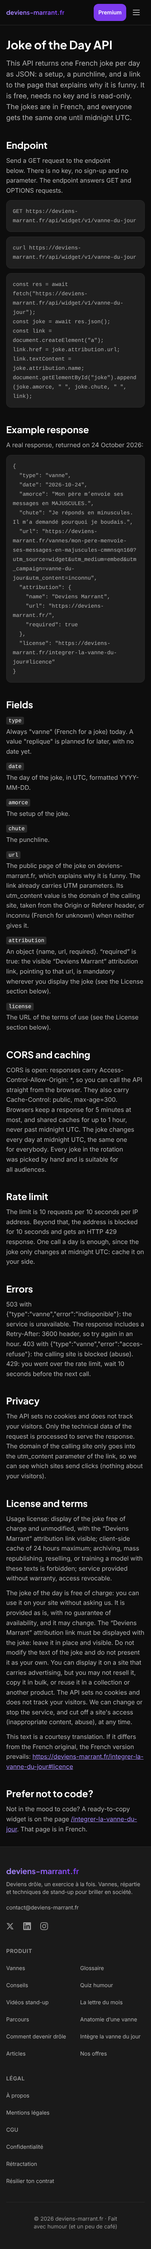
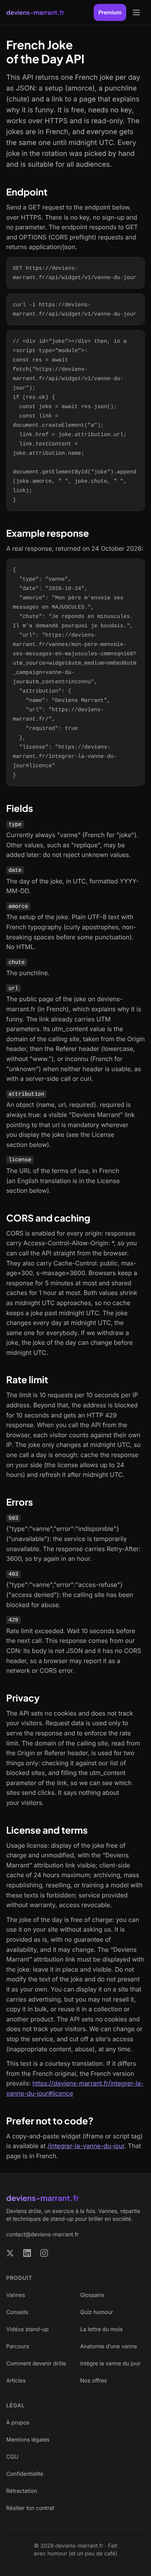
fix(widget-s22): /developers corrigée après relecture (cache réel, vie privée exacte, fetch sûr, erreurs en liste, 429 du CDN)
Claude-Session: https://claude.ai/code/session_01YAxbXJAdESRnkaFF4w4w5d

diff --git a/apps/web/src/config/textes/developers.ts b/apps/web/src/config/textes/developers.ts
@@ -9,9 +9,10 @@
 export const PAGE_TITLE = "Free Joke of the Day API in French | Deviens Marrant";
 /** Meta description (≤ 155 caractères). */
 export const PAGE_DESCRIPTION =
-  "Free JSON API for a French joke of the day: no key, no sign-up, CORS enabled. A new joke every day, read-only. The jokes are in French.";
+  "Free JSON API for a French joke of the day: no key, no sign-up, CORS enabled. A different joke every day, read-only. The jokes are in French.";
 
-export const H1 = "Joke of the Day API";
+/** H1, repris comme `name` du JSON-LD WebAPI. */
+export const H1 = "French Joke of the Day API";
 export const H2_ENDPOINT = "Endpoint";
 export const H2_EXEMPLE = "Example response";
 export const H2_CHAMPS = "Fields";
@@ -24,11 +25,11 @@ export const H2_WIDGET = "Prefer not to code?";
 
 /** Chapeau sous le H1. */
 export const TEXTE_INTRO =
-  "This API returns one French joke per day as JSON: a setup, a punchline, and a link to the page that explains why it is funny. It is free, needs no key and is read-only. The jokes are in French, and everyone gets the same one until midnight UTC.";
+  "This API returns one French joke per day as JSON: a setup (amorce), a punchline (chute) and a link to a page that explains why it is funny. It is free, needs no key, works over HTTPS and is read-only. The jokes are in French, and everyone gets the same one until midnight UTC. Every joke in the rotation was picked by hand and is suitable for all audiences.";
 
 /** Phrase avant l'exemple d'appel (GET https://deviens-marrant.fr/api/widget/v1/vanne-du-jour). */
 export const TEXTE_ENDPOINT =
-  "Send a GET request to the endpoint below. There is no key, no sign-up and no parameter. The endpoint answers GET and OPTIONS requests.";
+  "Send a GET request to the endpoint below, over HTTPS. There is no key, no sign-up and no parameter. The endpoint responds to GET and OPTIONS (CORS preflight) requests and returns application/json.";
 
 /** Phrase avant l'exemple de réponse. */
 export const TEXTE_EXEMPLE = "A real response, returned on 24 October 2026:";
@@ -41,7 +42,7 @@ export const CHAMPS: { nom: string; description: string }[] = [
   {
     nom: "type",
     description:
-      `Always "vanne" (French for a joke) today. A value "replique" is planned for later, with no date yet.`,
+      `Currently always "vanne" (French for "joke"). Other values, such as "replique", may be added later: do not reject unknown values.`,
   },
   {
     nom: "date",
@@ -49,7 +50,9 @@ export const CHAMPS: { nom: string; description: string }[] = [
   },
   {
     nom: "amorce",
-    description: "The setup of the joke.",
+    // amorce et chute passent par frTypo côté API (lib/widget/vanne-du-jour.ts).
+    description:
+      "The setup of the joke. Plain UTF-8 text with French typography (curly apostrophes, non-breaking spaces before some punctuation). No HTML.",
   },
   {
     nom: "chute",
@@ -58,34 +61,52 @@ export const CHAMPS: { nom: string; description: string }[] = [
   {
     nom: "url",
     description:
-      "The public page of the joke on deviens-marrant.fr, which explains why it is funny. The link already carries UTM parameters. Its utm_content value is the domain of the calling site, taken from the Origin or Referer header, or inconnu (French for unknown) when neither gives it.",
+      `The public page of the joke on deviens-marrant.fr (in French), which explains why it is funny. The link already carries UTM parameters. Its utm_content value is the domain of the calling site, taken from the Origin header, then the Referer header (lowercase, without "www."), or inconnu (French for "unknown") when neither header is usable, as with a server-side call or curl.`,
   },
   {
     nom: "attribution",
     description:
-      `An object {name, url, required}. “required” is true: the visible “Deviens Marrant” attribution link, pointing to that url, is mandatory wherever you display the joke (see the License section below).`,
+      `An object {name, url, required}. required is always true: a visible "Deviens Marrant" link pointing to that url is mandatory wherever you display the joke (see the License section below).`,
   },
   {
     nom: "license",
-    description: "The URL of the terms of use (see the License section below).",
+    description:
+      "The URL of the terms of use, in French (an English translation is in the License section below).",
   },
 ];
 
 /** CORS, cache, moment du changement de vanne. */
 export const TEXTE_CORS_CACHE =
-  "CORS is open: responses carry Access-Control-Allow-Origin: *, so you can call the API straight from the browser. They also carry Cache-Control: public, max-age=300. Browsers keep a response for 5 minutes at most, and shared caches for up to 1 hour, never past midnight UTC. The joke changes every day at midnight UTC, the same one for everybody. Every joke in the rotation was picked by hand and is suitable for all audiences.";
+  "CORS is enabled for every origin: responses carry Access-Control-Allow-Origin: *, so you can call the API straight from the browser. They also carry Cache-Control: public, max-age=300, s-maxage=3600. Browsers keep a response for 5 minutes at most and shared caches for 1 hour at most. Both values shrink as midnight UTC approaches, so no cache keeps a joke past midnight UTC. The joke changes every day at midnight UTC, the same one for everybody. If we withdraw a joke, the joke of the day can change before midnight UTC.";
 
 /** Limite de requêtes et conseil de cache. */
 export const TEXTE_LIMITE =
-  "The limit is 10 requests per 10 seconds per IP address. Beyond that, the address is blocked for 10 seconds and gets an HTTP 429 response. One call a day is enough, since the joke only changes at midnight UTC: cache it on your side.";
+  "The limit is 10 requests per 10 seconds per IP address. Beyond that, the address is blocked for 10 seconds and gets an HTTP 429 response. When you call the API from the browser, each visitor counts against their own IP. The joke only changes at midnight UTC, so one call a day is enough: cache the response on your side (the license allows up to 24 hours) and refresh it after midnight UTC.";
 
-/** Codes d'erreur. */
-export const TEXTE_ERREURS =
-  `503 with {"type":"vanne","error":"indisponible"}: the service is unavailable. The response includes a Retry-After: 3600 header, so try again in an hour. 403 with {"type":"vanne","error":"acces-refuse"}: the calling site is blocked (abuse). 429: you went over the rate limit, wait 10 seconds before the next call.`;
+/**
+ * Codes d'erreur, rendus en <dl> comme CHAMPS. 429 : mesuré en production, la règle
+ * Cloudflare bloque sans réponse personnalisée (ni CORS ni JSON).
+ */
+export const ERREURS: { code: string; description: string }[] = [
+  {
+    code: "503",
+    description:
+      `{"type":"vanne","error":"indisponible"} ("unavailable"): the service is temporarily unavailable. The response carries Retry-After: 3600, so try again in an hour.`,
+  },
+  {
+    code: "403",
+    description: `{"type":"vanne","error":"acces-refuse"} ("access denied"): the calling site has been blocked for abuse.`,
+  },
+  {
+    code: "429",
+    description:
+      "Rate limit exceeded. Wait 10 seconds before the next call. This response comes from our CDN: its body is not JSON and it has no CORS header, so a browser may report it as a network or CORS error.",
+  },
+];
 
-/** Vie privée : seul le domaine appelant est compté. */
+/** Vie privée : usages du domaine appelant et des données de la requête. */
 export const TEXTE_VIE_PRIVEE =
-  "The API sets no cookies and does not track your visitors. Only the technical data of the request is processed to serve the response. The domain of the calling site only goes into the utm_content parameter of the link, so we can see which sites send clicks (nothing about your visitors).";
+  "The API sets no cookies and does not track your visitors. Request data is used only to serve the response and to enforce the rate limit. The domain of the calling site, read from the Origin or Referer header, is used for two things only: checking it against our list of blocked sites, and filling the utm_content parameter of the link, so we can see which sites send clicks. It says nothing about your visitors.";
 
 /**
  * Traduction de la ligne « Licence d'usage » et des « Conditions » (@legal), adaptée à l'API.
@@ -101,6 +122,6 @@ export const TEXTE_LICENCE_FOI =
   "This text is a courtesy translation. If it differs from the French original, the French version prevails: https://deviens-marrant.fr/integrer-la-vanne-du-jour#licence";
 export const TEXTE_LICENCE = `${TEXTE_LICENCE_USAGE}\n\n${TEXTE_LICENCE_CONDITIONS}\n\n${TEXTE_LICENCE_FOI}`;
 
-/** Renvoi vers le widget prêt à copier (page en français). */
+/** Renvoi vers le widget prêt à copier (page en français). Le chemin n'y figure qu'une fois (split dans page.tsx). */
 export const TEXTE_WIDGET =
-  "Not in the mood to code? A ready-to-copy widget is on the page /integrer-la-vanne-du-jour. That page is in French.";
+  "A copy-and-paste widget (iframe or script tag) is available at /integrer-la-vanne-du-jour. That page is in French.";

diff --git a/apps/web/src/__tests__/feature/developers-s22.test.tsx b/apps/web/src/__tests__/feature/developers-s22.test.tsx
@@ -26,7 +26,7 @@ jest.mock("next/navigation", () => ({
 
 import Page, { metadata } from "@/app/(dashboard)/developers/page";
 import Programme from "@/app/(dashboard)/integrer-la-vanne-du-jour/page";
-import { CHAMPS, H1, PAGE_TITLE, TEXTE_LICENCE_CONDITIONS, TEXTE_LICENCE_USAGE } from "@/config/textes/developers";
+import { CHAMPS, ERREURS, H1, PAGE_TITLE, TEXTE_LICENCE_CONDITIONS, TEXTE_LICENCE_USAGE } from "@/config/textes/developers";
 
 const ENDPOINT = "https://deviens-marrant.fr/api/widget/v1/vanne-du-jour";
 
@@ -34,21 +34,47 @@ beforeEach(() => {
   setPublie(true);
 });
 
+/** Codes (<dt><code>) de la <dl> qui suit le H2 donné. */
+function codesDl(container: HTMLElement, h2: string): (string | null)[] {
+  const titre = [...container.querySelectorAll("h2")].find((h) => h.textContent === h2);
+  const dl = titre?.nextElementSibling;
+  expect(dl?.tagName).toBe("DL");
+  return [...dl!.querySelectorAll("dt code")].map((c) => c.textContent);
+}
+
 describe("page /developers", () => {
-  it("H1, URL de l'endpoint, contenu en anglais (lang=en)", () => {
+  it("H1 « French Joke of the Day API », repris par le JSON-LD WebAPI, contenu en anglais (lang=en)", () => {
     const { container } = render(<Page />);
+    expect(H1).toBe("French Joke of the Day API");
     expect(screen.getByRole("heading", { level: 1 }).textContent).toBe(H1);
-    const codes = [...container.querySelectorAll("pre code")].map((c) => c.textContent);
-    expect(codes).toContain(`GET ${ENDPOINT}`);
-    expect(codes).toContain(`curl ${ENDPOINT}`);
     expect(container.querySelector('div[lang="en"] h1')).toBeTruthy();
+    const jsonLd = [...container.querySelectorAll('script[type="application/ld+json"]')].map((s) => JSON.parse(s.innerHTML));
+    expect(jsonLd.find((d) => d["@type"] === "WebAPI")?.name).toBe(H1);
+  });
+
+  it("endpoint, curl -i, fetch en module avec contrôle de res.ok", () => {
+    const { container } = render(<Page />);
+    const codes = [...container.querySelectorAll("pre code")].map((c) => c.textContent ?? "");
+    expect(codes).toContain(`GET ${ENDPOINT}`);
+    expect(codes).toContain(`curl -i ${ENDPOINT}`);
+    const fetchJs = codes.find((c) => c.includes("fetch("))!;
+    expect(fetchJs.split("\n")[0]).toBe('// <div id="joke"></div> then, in a <script type="module">:');
+    expect(fetchJs).toContain(`await fetch("${ENDPOINT}")`);
+    expect(fetchJs).toContain("if (res.ok) {");
+    expect(fetchJs).not.toContain("innerHTML");
   });
 
   it("les 7 champs, nom en <code>, dans l'ordre", () => {
     const { container } = render(<Page />);
-    const noms = [...container.querySelectorAll("dt code")].map((c) => c.textContent);
-    expect(noms).toEqual(["type", "date", "amorce", "chute", "url", "attribution", "license"]);
+    expect(codesDl(container, "Fields")).toEqual(["type", "date", "amorce", "chute", "url", "attribution", "license"]);
     expect(CHAMPS).toHaveLength(7);
+  });
+
+  it("erreurs en liste <dl> : 503, 403, 429 (429 venu du CDN, sans CORS ni JSON)", () => {
+    const { container } = render(<Page />);
+    expect(codesDl(container, "Errors")).toEqual(["503", "403", "429"]);
+    expect(ERREURS.find((e) => e.code === "429")?.description).toContain("no CORS header");
+    expect(ERREURS.find((e) => e.code === "503")?.description).toContain("Retry-After: 3600");
   });
 
   it("exemple de réponse indenté, JSON valide", () => {
@@ -71,9 +97,13 @@ describe("page /developers", () => {
 
   it("lien interne vers le programme, aucune typo française, aucun tiret cadratin", () => {
     const { container } = render(<Page />);
-    expect(container.querySelector('a[href="/integrer-la-vanne-du-jour"]')?.textContent).toBe("/integrer-la-vanne-du-jour");
+    const widget = container.querySelector('a[href="/integrer-la-vanne-du-jour"]');
+    expect(widget?.textContent).toBe("/integrer-la-vanne-du-jour");
+    expect(widget?.closest("p")?.textContent).toBe(
+      "A copy-and-paste widget (iframe or script tag) is available at /integrer-la-vanne-du-jour. That page is in French.",
+    );
     expect(container.textContent).not.toMatch(/[  ]/);
-    expect(container.textContent).not.toContain("—");
+    expect(container.textContent).not.toMatch(/[—–]/);
   });
 
   it("metadata : titre absolu, canonical /developers (liens ?ref= d'annuaire), og en_US", () => {

diff --git a/apps/web/src/app/(dashboard)/developers/page.tsx b/apps/web/src/app/(dashboard)/developers/page.tsx
@@ -23,7 +23,7 @@ import {
   CHAMPS,
   TEXTE_CORS_CACHE,
   TEXTE_LIMITE,
-  TEXTE_ERREURS,
+  ERREURS,
   TEXTE_VIE_PRIVEE,
   TEXTE_LICENCE_USAGE,
   TEXTE_LICENCE_CONDITIONS,
@@ -80,14 +80,19 @@ const webApiJsonLd = {
 };
 
 const EXEMPLE_JSON = JSON.stringify(JSON.parse(EXEMPLE_REPONSE), null, 2);
-const EXEMPLE_CURL = `curl ${API_URL}`;
+// -i : le dev voit tout de suite les en-têtes CORS et cache documentés.
+const EXEMPLE_CURL = `curl -i ${API_URL}`;
+// await de premier niveau : valide seulement dans un <script type="module"> (dit en commentaire).
 const EXEMPLE_FETCH = [
+  '// <div id="joke"></div> then, in a <script type="module">:',
   `const res = await fetch("${API_URL}");`,
-  "const joke = await res.json();",
-  'const link = document.createElement("a");',
-  "link.href = joke.attribution.url;",
-  "link.textContent = joke.attribution.name;",
-  'document.getElementById("joke").append(joke.amorce, " ", joke.chute, " ", link);',
+  "if (res.ok) {",
+  "  const joke = await res.json();",
+  '  const link = document.createElement("a");',
+  "  link.href = joke.attribution.url;",
+  "  link.textContent = joke.attribution.name;",
+  '  document.getElementById("joke").append(joke.amorce, " ", joke.chute, " ", link);',
+  "}",
 ].join("\n");
 
 const URL_FOI = TEXTE_LICENCE_FOI.slice(TEXTE_LICENCE_FOI.indexOf("https://"));
@@ -149,7 +154,16 @@ export default function DevelopersPage() {
         <p className={P}>{TEXTE_LIMITE}</p>
 
         <h2 className={H2}>{H2_ERREURS}</h2>
-        <p className={`${P} [overflow-wrap:anywhere]`}>{TEXTE_ERREURS}</p>
+        <dl className="mt-3 space-y-3">
+          {ERREURS.map((erreur) => (
+            <div key={erreur.code}>
+              <dt>
+                <code className={CODE}>{erreur.code}</code>
+              </dt>
+              <dd className="mt-1 text-text-secondary [overflow-wrap:anywhere]">{erreur.description}</dd>
+            </div>
+          ))}
+        </dl>
 
         <h2 className={H2}>{H2_VIE_PRIVEE}</h2>
         <p className={P}>{TEXTE_VIE_PRIVEE}</p>
